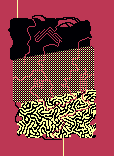
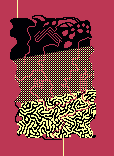
shrink template to fit maze in flash

diff --git a/maze/maze.py b/maze/maze.py
@@ -15,7 +15,7 @@ HEIGHT = 20
 
 # based on map.txt
 TOP_Y = 15
-BOTTOM_Y = 132  # 140
+BOTTOM_Y = 140
 
 
 try:
